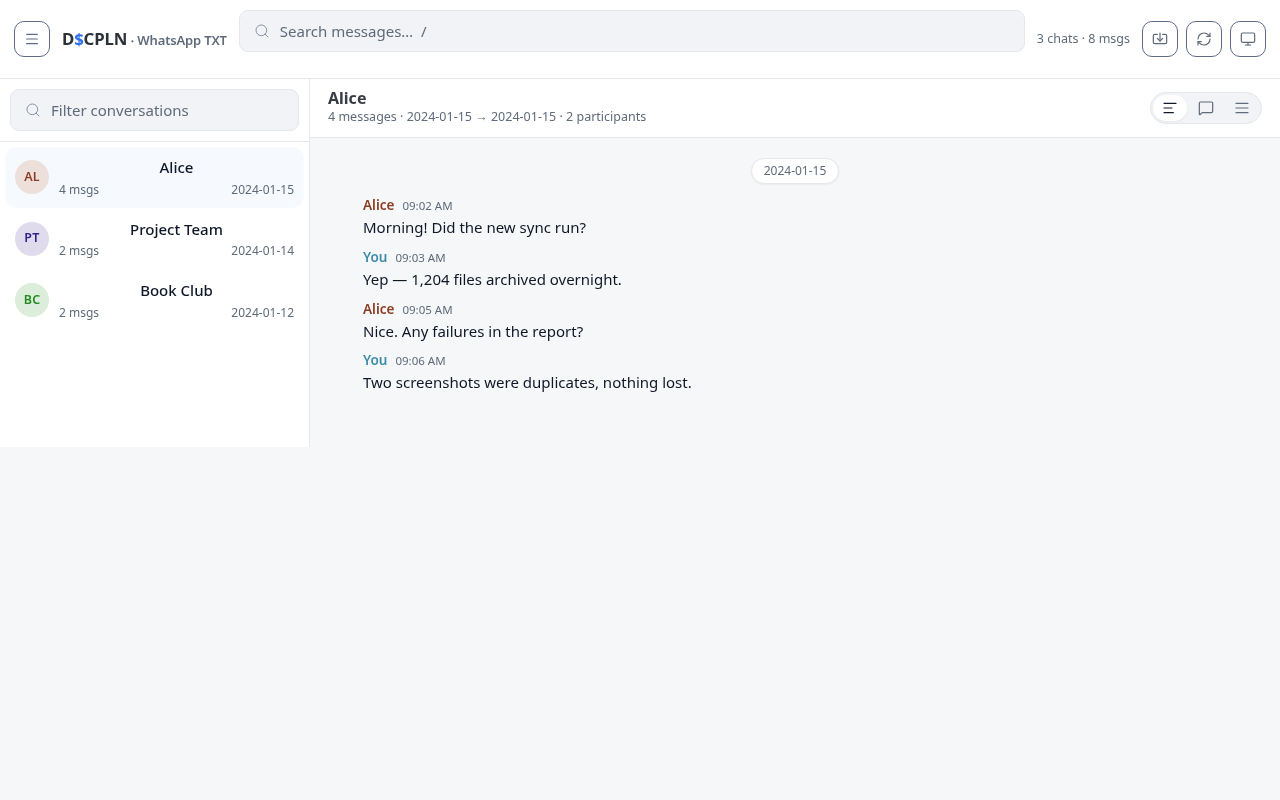
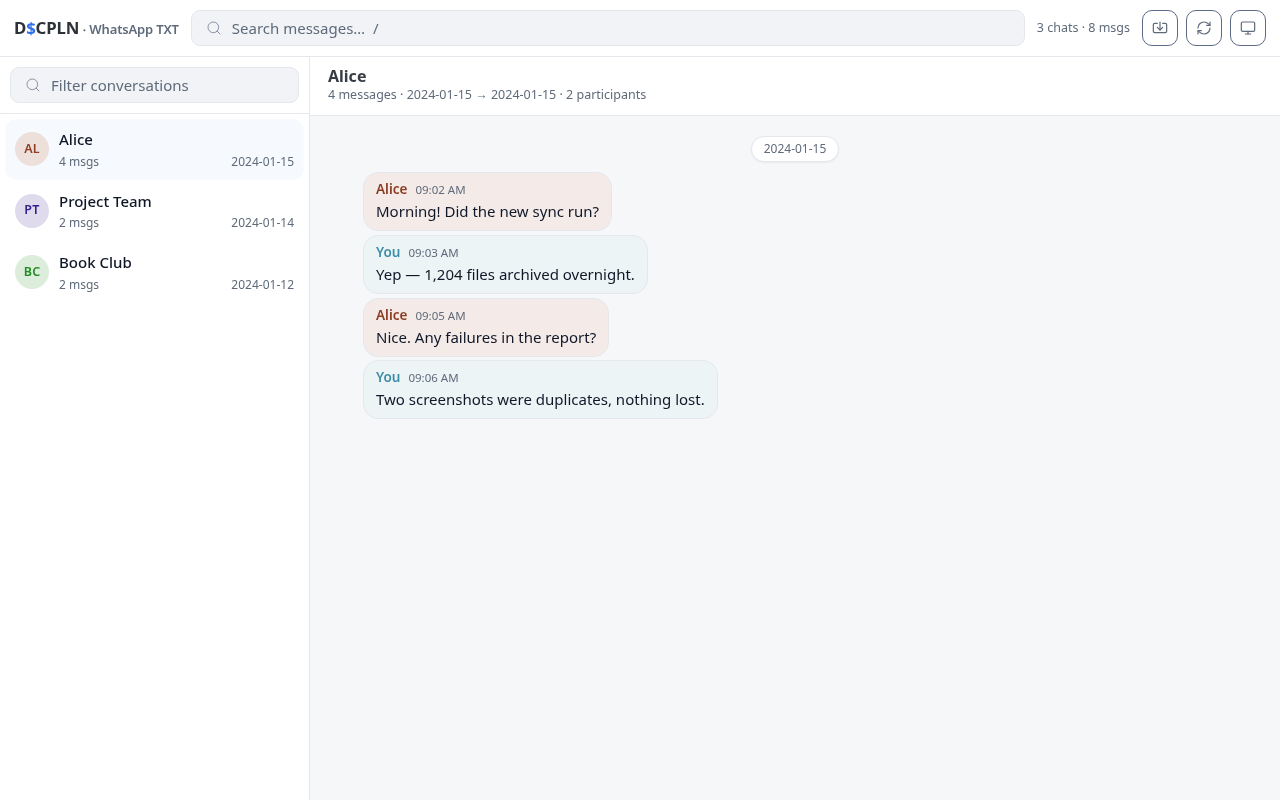
whatsapp-txt: header, list and scroll fixes
- Left-align conversation names (Pico centred [role=button] text).
- Centre the search bar: reset Pico's [role=search] bottom margin and size
  the topbar inputs to the icon-button height.
- Keep bubbles as the only transcript view; drop the mode switch.
- Brand first in the header; the list toggle only shows at the mobile
  breakpoint, next to the search box.
- Flatten the Svelte #app wrapper (display: contents) so the viewport-height
  two-pane layout works and the message scroller pages in more batches.

diff --git a/apps/whatsapp-txt/ui/src/App.svelte b/apps/whatsapp-txt/ui/src/App.svelte
@@ -1,16 +1,6 @@
 <script>
   import { onMount, tick } from 'svelte'
-  import {
-    ArrowDown,
-    ArrowUp,
-    AlignJustify,
-    AlignLeft,
-    Import,
-    Menu,
-    MessageSquare,
-    RefreshCw,
-    X,
-  } from 'lucide-svelte'
+  import { ArrowDown, ArrowUp, Import, Menu, RefreshCw, X } from 'lucide-svelte'
   import { apiUrl, formatDateTime, getJson, postJson, ThemeToggle } from '@dscpln/ui-kit'
 
   const PAGE_SIZE = 200
@@ -89,7 +79,6 @@
   let loadedLast = $state(-1)
   let loading = $state(false)
   let viewToken = 0
-  let viewMode = $state(localStorage.getItem('whatsapptxt-view') ?? 'transcript')
   let palettes = $state(new Map())
   let skeleton = $state(false)
 
@@ -624,11 +613,6 @@
     results[next].focus()
   }
 
-  function setViewMode(mode) {
-    viewMode = mode
-    localStorage.setItem('whatsapptxt-view', mode)
-  }
-
   const openResult = (result) => {
     location.hash = `#/c/${encodeURIComponent(result.conversationId)}?at=${result.index}`
   }
@@ -658,10 +642,10 @@
 
 <header class="topbar app-header">
   <div class="app-header__top">
+    <h1><a class="app-header__brand" href="/">D<span class="accent">$</span>CPLN</a> <span class="app-header__app">⋅ WhatsApp TXT</span></h1>
     <button id="sidebar-toggle" class="outline secondary icon-button" aria-label="Toggle conversation list" onclick={() => (sidebarOpen = !sidebarOpen)}>
       <Menu size={16} strokeWidth={1.8} />
     </button>
-    <h1><a class="app-header__brand" href="/">D<span class="accent">$</span>CPLN</a> <span class="app-header__app">⋅ WhatsApp TXT</span></h1>
     <form id="search-form" class="search-form" role="search" onsubmit={submitSearch}>
       <span class="search-box">
         <input id="search-input" bind:this={searchInput} type="search" placeholder="Search messages…  /" autocomplete="off" spellcheck="false"
@@ -729,7 +713,7 @@
     </ul>
   </aside>
 
-  <section id="content" class="content" class:view-transcript={viewMode === 'transcript'} class:view-bubbles={viewMode === 'bubbles'} class:view-compact={viewMode === 'compact'}>
+  <section id="content" class="content view-bubbles">
     {#if searchActive}
       <div class="search-view">
         <div class="search-filters">
@@ -815,17 +799,6 @@
             {conversation.messageCount.toLocaleString()} messages · {dateLabel(conversation.first)} → {dateLabel(conversation.last)} · {conversation.senders.length} participants
           </div>
         </div>
-        <div class="mode-switch">
-          <button class="mode-btn" data-mode="transcript" title="Transcript" aria-label="Transcript view" aria-pressed={viewMode === 'transcript'} onclick={() => setViewMode('transcript')}>
-            <AlignLeft size={16} strokeWidth={1.8} />
-          </button>
-          <button class="mode-btn" data-mode="bubbles" title="Bubbles" aria-label="Bubbles view" aria-pressed={viewMode === 'bubbles'} onclick={() => setViewMode('bubbles')}>
-            <MessageSquare size={16} strokeWidth={1.8} />
-          </button>
-          <button class="mode-btn" data-mode="compact" title="Compact" aria-label="Compact view" aria-pressed={viewMode === 'compact'} onclick={() => setViewMode('compact')}>
-            <AlignJustify size={16} strokeWidth={1.8} />
-          </button>
-        </div>
       </div>
       <!-- svelte-ignore a11y_no_static_element_interactions -->
       <div id="message-scroll" class="message-scroll" bind:this={scrollEl} onscroll={onMessageScroll}>
@@ -851,31 +824,7 @@
                   id={`m-${message.index}`}
                   style={message.sender ? senderStyle(conversation.id, message.sender) : ''}
                 >
-                  {#if viewMode === 'compact'}
-                    <div class="body">
-                      <span class="prefix">
-                        <span class="time">{timeLabel(message.date)}</span>
-                        {#if !row.grouped && message.sender}<span class="sender">{message.sender}: </span>{/if}
-                      </span>
-                      {#each bodyParts(message.body) as part}
-                        {#if part.href}<a href={part.href} target="_blank" rel="noopener noreferrer">{part.href}</a>{:else}{part.text}{/if}
-                      {/each}
-                    </div>
-                  {:else if viewMode === 'bubbles'}
-                    <div class="bubble">
-                      {#if !row.grouped}
-                        <div class="line1">
-                          {#if message.sender}<span class="sender">{message.sender}</span>{/if}
-                          <span class="time">{timeLabel(message.date)}</span>
-                        </div>
-                      {/if}
-                      <div class="body">
-                        {#each bodyParts(message.body) as part}
-                          {#if part.href}<a href={part.href} target="_blank" rel="noopener noreferrer">{part.href}</a>{:else}{part.text}{/if}
-                        {/each}
-                      </div>
-                    </div>
-                  {:else}
+                  <div class="bubble">
                     {#if !row.grouped}
                       <div class="line1">
                         {#if message.sender}<span class="sender">{message.sender}</span>{/if}
@@ -887,7 +836,7 @@
                         {#if part.href}<a href={part.href} target="_blank" rel="noopener noreferrer">{part.href}</a>{:else}{part.text}{/if}
                       {/each}
                     </div>
-                  {/if}
+                  </div>
                 </div>
               {/if}
             {/each}

diff --git a/apps/whatsapp-txt/ui/src/whatsapp.css b/apps/whatsapp-txt/ui/src/whatsapp.css
@@ -39,6 +39,12 @@ body {
     padding: 0;
 }
 
+/* Svelte mounts into #app; let the header and layout be body's flex children
+   so the viewport-height two-pane layout works. */
+#app {
+    display: contents;
+}
+
 * {
     scrollbar-width: thin;
     scrollbar-color: var(--border) transparent;
@@ -89,6 +95,12 @@ select:focus-visible,
 .topbar h1 .app-header__app { color: var(--text-muted); font-weight: 600; }
 .topbar .app-header__actions { display: inline-flex; align-items: center; gap: var(--space-2); }
 
+/* The list toggle only exists where the sidebar collapses (see the 800px
+   media query). */
+#sidebar-toggle {
+    display: none;
+}
+
 /* The kit's top wrapper is a flex item here; stretch it so the growing search
    box pushes the action buttons to the right edge. */
 .topbar .app-header__top {
@@ -126,6 +138,7 @@ select:focus-visible,
 .search-form {
     flex: 1;
     display: flex;
+    align-items: center;
     min-width: 0;
 }
 
@@ -138,7 +151,8 @@ select:focus-visible,
 .search-box input,
 .sidebar-head input {
     width: 100%;
-    padding: 8px 12px;
+    height: 2.25rem;
+    padding: 0 12px;
     border: 1px solid var(--border);
     border-radius: 9px;
     background: var(--panel-alt);
@@ -227,6 +241,7 @@ select:focus-visible,
     padding: 6px;
     overflow-y: auto;
     flex: 1;
+    min-height: 0;
 }
 
 .conversation-item {
@@ -242,6 +257,7 @@ select:focus-visible,
     border: 0;
     font: inherit;
     width: 100%;
+    text-align: left;
 }
 
 .conversation-item:hover { background: var(--panel-alt); }
@@ -363,6 +379,7 @@ select:focus-visible,
 
 .message-scroll {
     flex: 1;
+    min-height: 0;
     overflow-y: auto;
     padding: 12px 0 48px;
 }
@@ -880,6 +897,7 @@ dialog.import-dialog {
     }
 
     .sidebar.open { transform: translateX(0); }
+    #sidebar-toggle { display: inline-flex; }
     .status { display: none; }
     .message-rows, .result { padding-left: 12px; padding-right: 12px; }
     .mode-switch { margin-left: 0; }

diff --git a/packages/ui-kit/src/app.css b/packages/ui-kit/src/app.css
@@ -1195,7 +1195,10 @@ button svg, a[role="button"] svg {
 /* Pico adds block spacing to sections, details and top-level landmarks; the
    design system owns rhythm through containers, so neutralize those defaults. */
 section,
-details {
+details,
+form,
+[role="search"],
+[role="group"] {
     margin-bottom: 0;
 }
 
@@ -1229,8 +1232,7 @@ button,
 [type="submit"],
 input:not([type="checkbox"], [type="radio"]),
 select,
-textarea,
-[role="group"] {
+textarea {
     margin-bottom: 0;
 }
 
